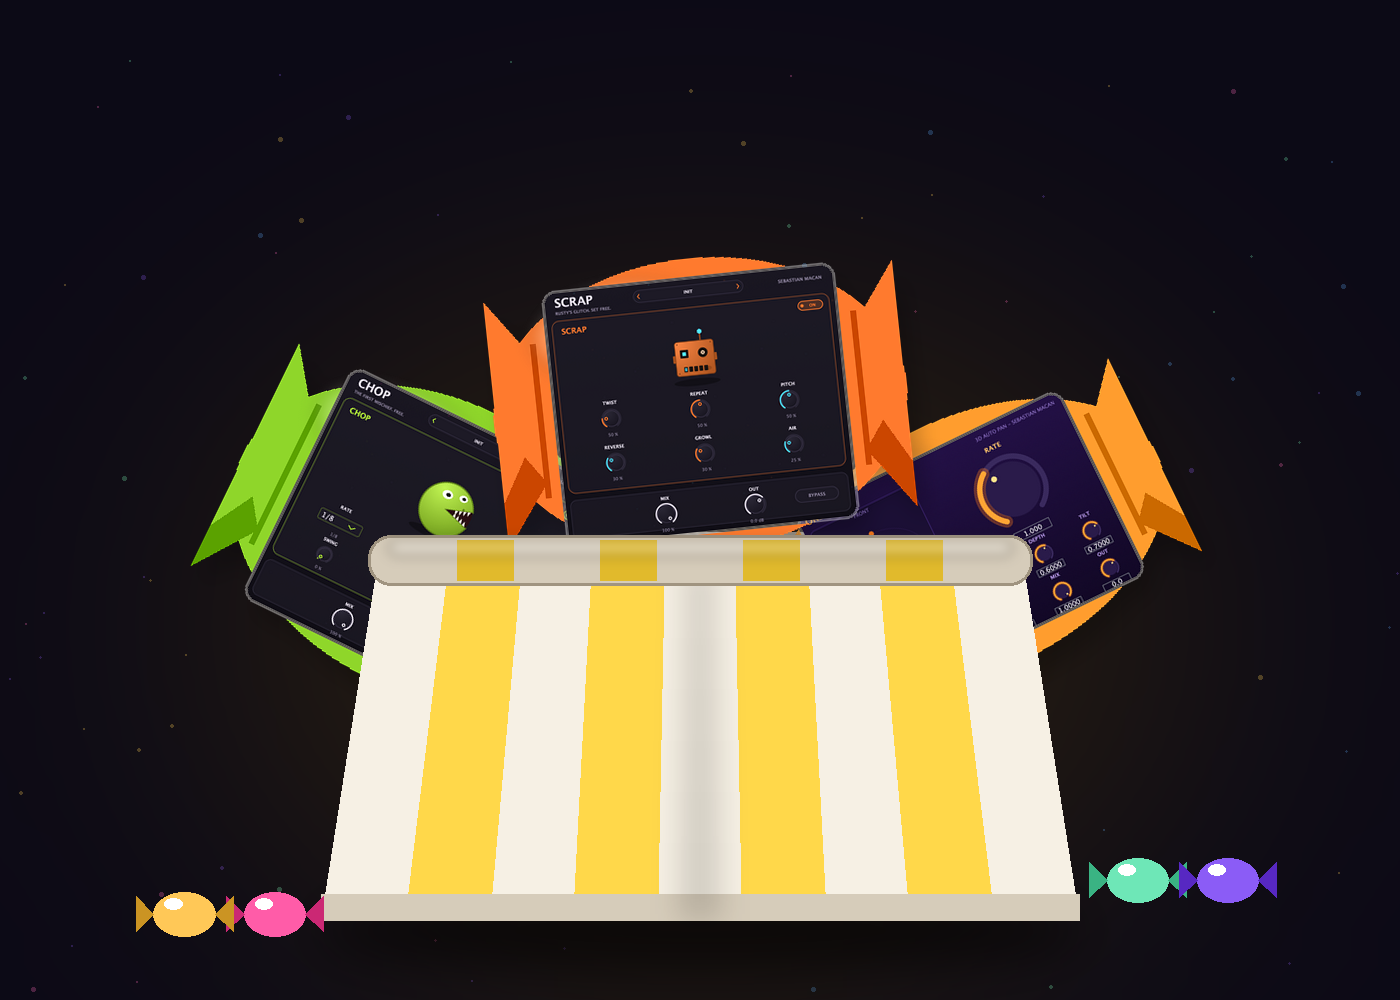
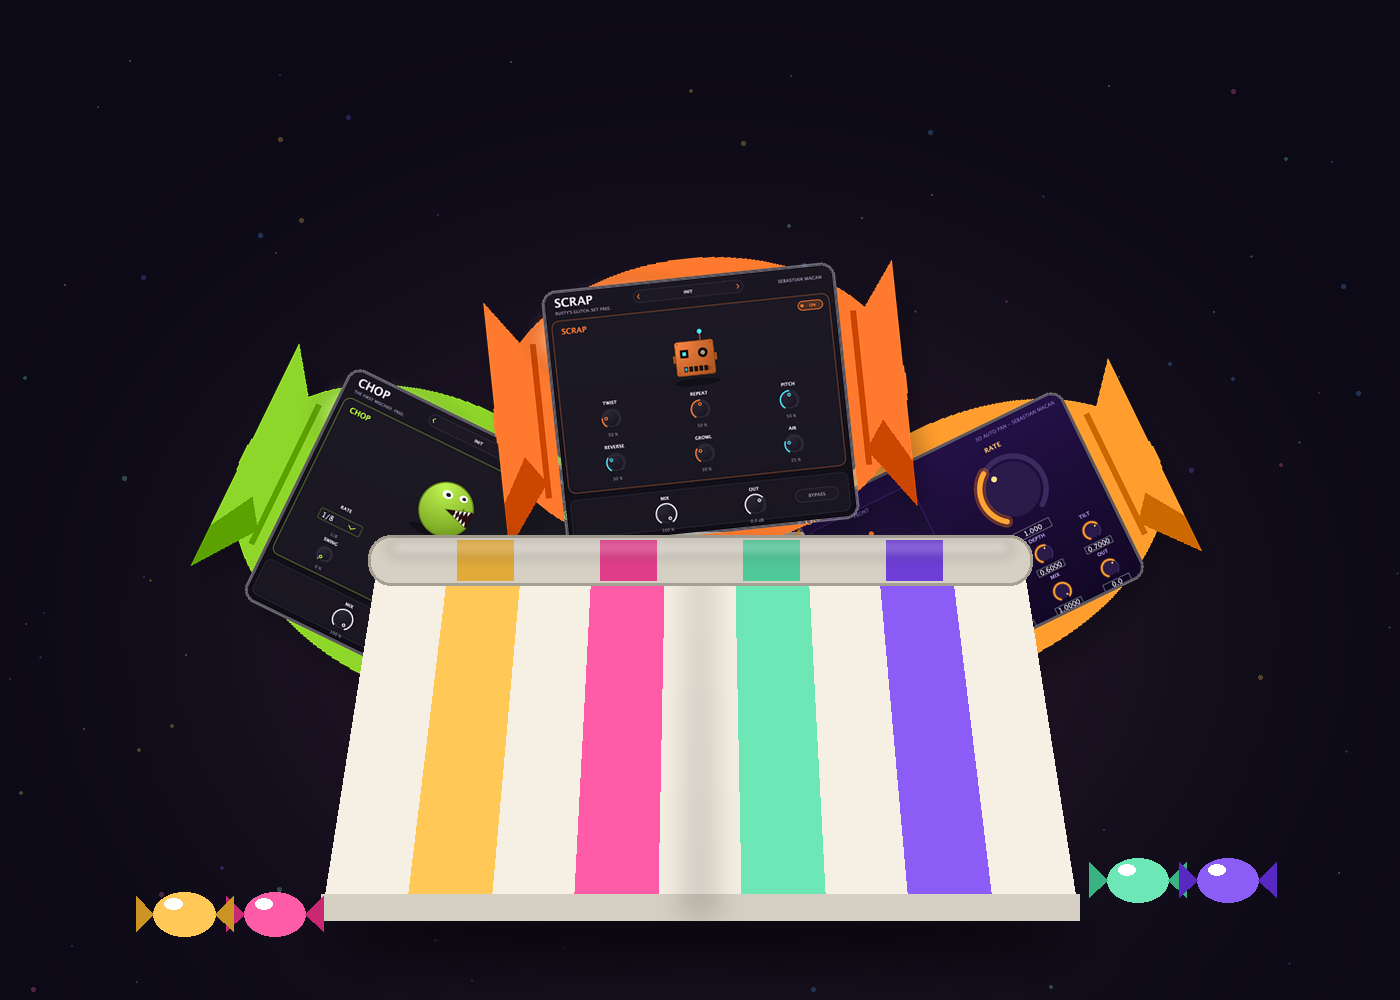
Candy Bag card: pink panel, dark wordmark, mixed-candy stripe bag

Changed region(s): [[0.3993, 0.527, 0.4914, 0.899], [0.6143, 0.527, 0.7064, 0.899], [0.5221, 0.527, 0.6143, 0.899]]

diff --git a/index.html b/index.html
@@ -232,18 +232,18 @@
   .freecard .dl { margin-top:12px; font-size:13.5px; padding:10px 14px; border-radius:999px; }
   .freecard .more { margin-top:8px; }
   /* Candy Bag: the closer. Full width, all three free plugins in one zip. */
-  .candybag { margin-top:14px; border:1px solid rgba(255,216,74,.38); background:var(--card); border-radius:18px; overflow:hidden; display:grid; grid-template-columns:1.1fr 1fr; position:relative; transition:transform .25s ease, box-shadow .25s ease, border-color .25s ease; }
-  .candybag:hover { transform:translateY(-4px); border-color:#ffd84a; box-shadow:0 18px 60px rgba(255,216,74,.16); }
+  .candybag { margin-top:14px; border:1px solid #ff5ca8; background:var(--card); border-radius:18px; overflow:hidden; display:grid; grid-template-columns:1.1fr 1fr; position:relative; transition:transform .25s ease, box-shadow .25s ease, border-color .25s ease; }
+  .candybag:hover { transform:translateY(-4px); border-color:#ff8ac4; box-shadow:0 18px 60px rgba(255,92,168,.28); }
   .candybag img { display:block; width:100%; height:100%; object-fit:cover; }
-  .candybag .pill { position:absolute; top:14px; right:14px; font-size:10px; font-weight:800; letter-spacing:.12em; padding:4px 9px; border-radius:999px; border:1px solid rgba(255,216,74,.5); color:#ffd84a; }
-  .candybag .binner { padding:34px 36px 32px; display:flex; flex-direction:column; justify-content:center; }
-  .candybag .kind { font-size:10px; letter-spacing:.14em; text-transform:uppercase; color:var(--dim); font-weight:700; }
-  .candybag h3 { margin:6px 0 8px; font-size:clamp(38px,5vw,56px); font-weight:900; letter-spacing:-.03em; line-height:.95; background:linear-gradient(135deg,#ffd84a,#ff9d2e); -webkit-background-clip:text; background-clip:text; -webkit-text-fill-color:transparent; }
-  .candybag p { margin:0 0 18px; color:var(--txt); font-size:18px; font-weight:600; }
+  .candybag .pill { position:absolute; top:14px; right:14px; font-size:10px; font-weight:800; letter-spacing:.12em; padding:4px 9px; border-radius:999px; border:1px solid #fff; color:#fff; }
+  .candybag .binner { padding:34px 36px 32px; display:flex; flex-direction:column; justify-content:center; background:linear-gradient(160deg,#ff6cb2,#ff4a9a 60%,#ff2f88); }
+  .candybag .kind { font-size:10px; letter-spacing:.14em; text-transform:uppercase; color:#ffe6f2; font-weight:700; }
+  .candybag h3 { margin:6px 0 8px; font-size:clamp(38px,5vw,56px); font-weight:900; letter-spacing:-.03em; line-height:.95; color:#1a1420; }
+  .candybag p { margin:0 0 18px; color:#fff; font-size:18px; font-weight:600; }
   .candybag .dlrow { display:flex; flex-wrap:wrap; gap:10px; }
-  .candybag .dl { font-size:14px; padding:12px 20px; border-radius:999px; background:linear-gradient(135deg,#ffd84a,#ff9d2e); box-shadow:0 6px 22px rgba(255,216,74,.28); color:#0a0a0c; font-weight:900; text-decoration:none; }
-  .candybag .dl.dl-win { background:none; border:1px solid rgba(255,216,74,.5); color:#ffd84a; box-shadow:none; }
-  .candybag .inside { margin-top:16px; font-size:12.5px; color:var(--dim); }
+  .candybag .dl { font-size:14px; padding:12px 20px; border-radius:999px; background:#1a1420; box-shadow:0 6px 22px rgba(0,0,0,.3); color:#ff6cb2; font-weight:900; text-decoration:none; }
+  .candybag .dl.dl-win { background:none; border:1px solid #fff; color:#fff; box-shadow:none; }
+  .candybag .inside { margin-top:16px; font-size:12.5px; color:#ffd6e8; }
   @media (max-width:720px) { .candybag { grid-template-columns:1fr; } .candybag .binner { padding:22px 20px 24px; } }
   @media (min-width:641px){ .card.gremlin .desc, .card.gremlin .tag, .card.gremlin .kind, .card.gremlin .meta { text-shadow:0 1px 2px rgba(0,0,0,.9), 0 0 12px rgba(5,5,14,.95), 0 0 24px rgba(5,5,14,.9); } }
 </style>
@@ -664,7 +664,7 @@
     </div>
   </div>
   <div class="candybag" id="candybag">
-    <img src="img/bundles/candy_bag.png?v=1" alt="Candy Bag: Chop, Scrap and Orbit as wrapped candy spilling out of a striped paper bag" loading="lazy">
+    <img src="img/bundles/candy_bag.png?v=2" alt="Candy Bag: Chop, Scrap and Orbit as wrapped candy spilling out of a striped paper bag" loading="lazy">
     <div class="binner">
       <span class="pill">FREE</span>
       <div class="kind">Three free plugins</div>
